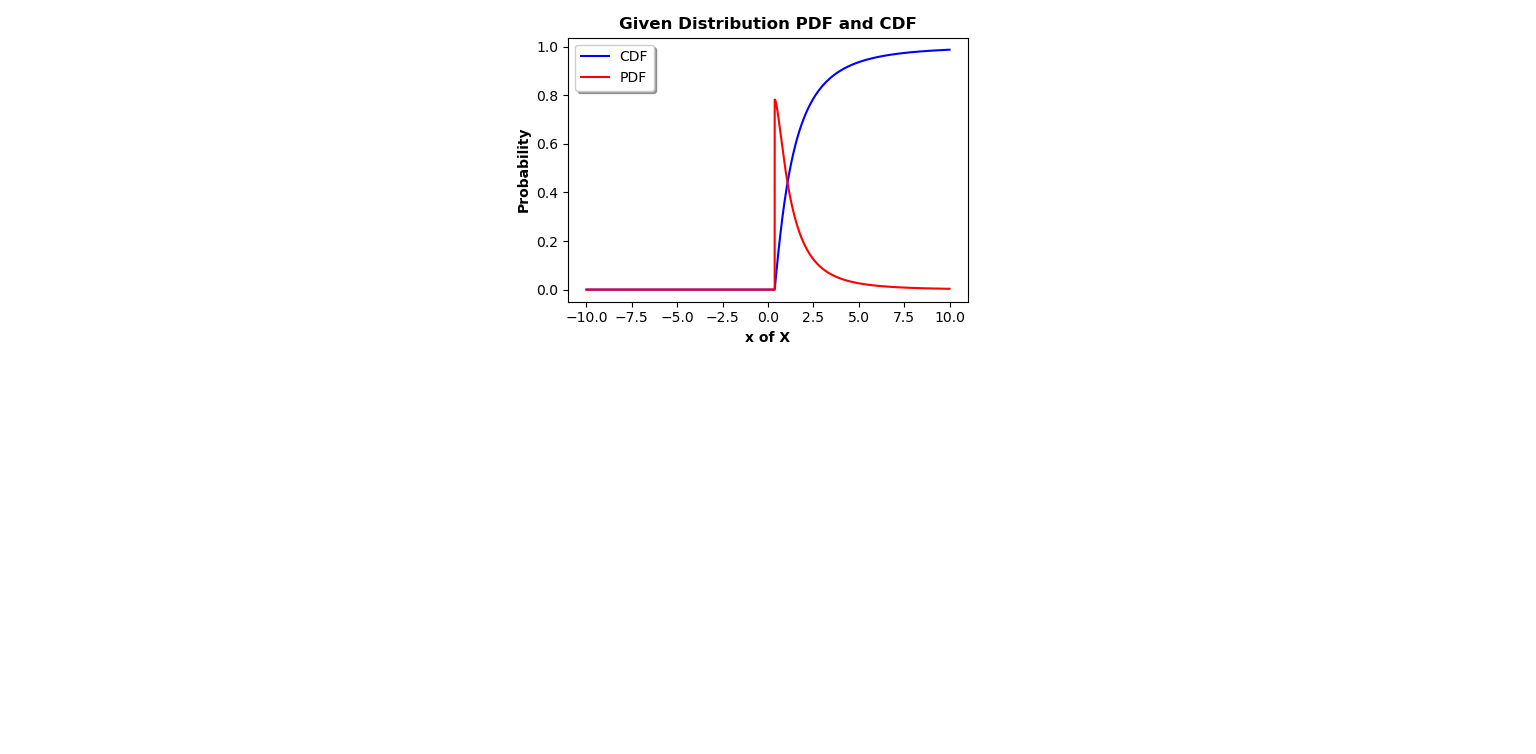
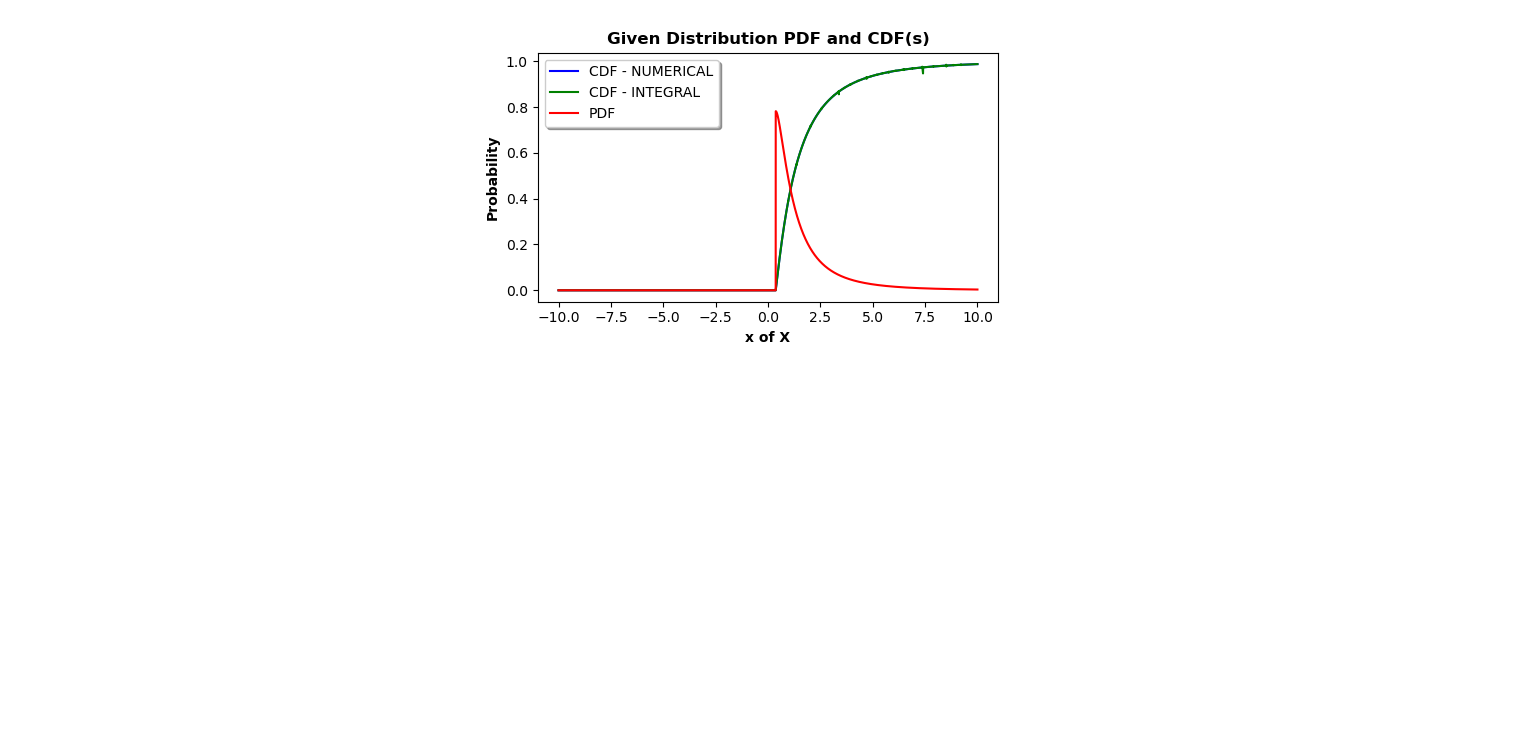
img

Changed region(s): [[0.3125, 0.0, 0.6562, 0.4271], [0.3438, 0.366, 0.5, 0.4271], [0.3438, 0.305, 0.375, 0.3355]]

diff --git a/PROJECT.py b/PROJECT.py
@@ -1,0 +1,75 @@
+# Author | Eduardo Ortega
+import matplotlib.pyplot as plt
+import numpy as np
+import math, os, time
+from scipy.integrate import quad
+from scipy.special import erfinv, erf
+BOUNDARY = 1/math.e
+c=1/(((math.pi**(1/2))*(1+erf(1/(2**(1/2))))) / (2**(1/2)))
+d=c*((math.pi**(1/2))/(2**(1/2)))*erf(math.log(1/math.e)/(2**(1/2)))
+
+def pdf(x, bound):
+    if x < bound: return 0.0
+    first = 1/x
+    second = (-1.0 * (math.log(x) ** 2)) / 2.0
+    second = math.e ** (second)
+    return c * (first * second)
+
+def cdf_num(x, bound):
+    if x < bound: return 0.0
+    value = (erf(math.log(x)/(2**(1/2)))*(math.pi**(1/2)))/(2**(1/2))
+    value *= c
+    value -= d
+    return value
+
+def cdf_int(t, bound):
+    I = quad(pdf, -1*np.inf, t, args=(bound))
+    return I[0]  
+
+
+def invcdf_function_EEE554(u):
+    if u <= 0.0: return 0.0
+    inside = ((2**(1/2))*(u-d))/(c*(math.pi**(1/2)))
+    x = math.e ** ((2*(1/2))*erfinv(inside))
+    return x
+    
+def cdf_invcdf_plot():
+    x = np.linspace(-10, 10, 10000)
+    u = np.linspace(0.0, 1.0, 10000)
+    y_cdf = [cdf_function_EEE554(t, BOUNDARY) for t in x]
+    x_invcdf = [invcdf_function_EEE554(s) for s in u]
+    plt.plot(x, y_cdf, c='b', label="CDF")
+    plt.plot(x_invcdf, u, c='r', label="INVERSE CDF")
+    plt.title("Given distribution CDF and its estimate\n(Through INVERSE CDF)", fontweight='bold')
+    plt.ylabel("Probability", fontweight='bold')
+    plt.xlabel("x of X", fontweight='bold')
+    plt.xlim([0.0, 10.0])
+    plt.legend(fancybox=True, shadow=True)
+    plt.show()
+
+def cdf_pdf_plot():
+    x = np.linspace(-10, 10, 10000)
+    y_cdf_num = [cdf_num(t, BOUNDARY) for t in x]
+    y_cdf_int = [cdf_int(t, BOUNDARY) for t in x]
+    y_pdf = [pdf(t, BOUNDARY) for t in x]
+    plt.plot(x, y_cdf_num, c='b', label="CDF - NUMERICAL")
+    plt.plot(x, y_cdf_int, c='g', label="CDF - INTEGRAL")
+    plt.plot(x, y_pdf, c='r', label="PDF")
+    plt.title("Given Distribution PDF and CDF(s)", fontweight='bold')
+    plt.ylabel("Probability", fontweight='bold')
+    plt.xlabel("x of X", fontweight='bold')
+    plt.legend(fancybox=True, shadow=True)
+    plt.show()
+    
+def compute_integral():
+    I = quad(pdf, BOUNDARY, np.inf, args=(BOUNDARY))
+    return I
+
+def main():
+    cdf_pdf_plot()
+
+if __name__=="__main__":
+    main()
+
+
+
